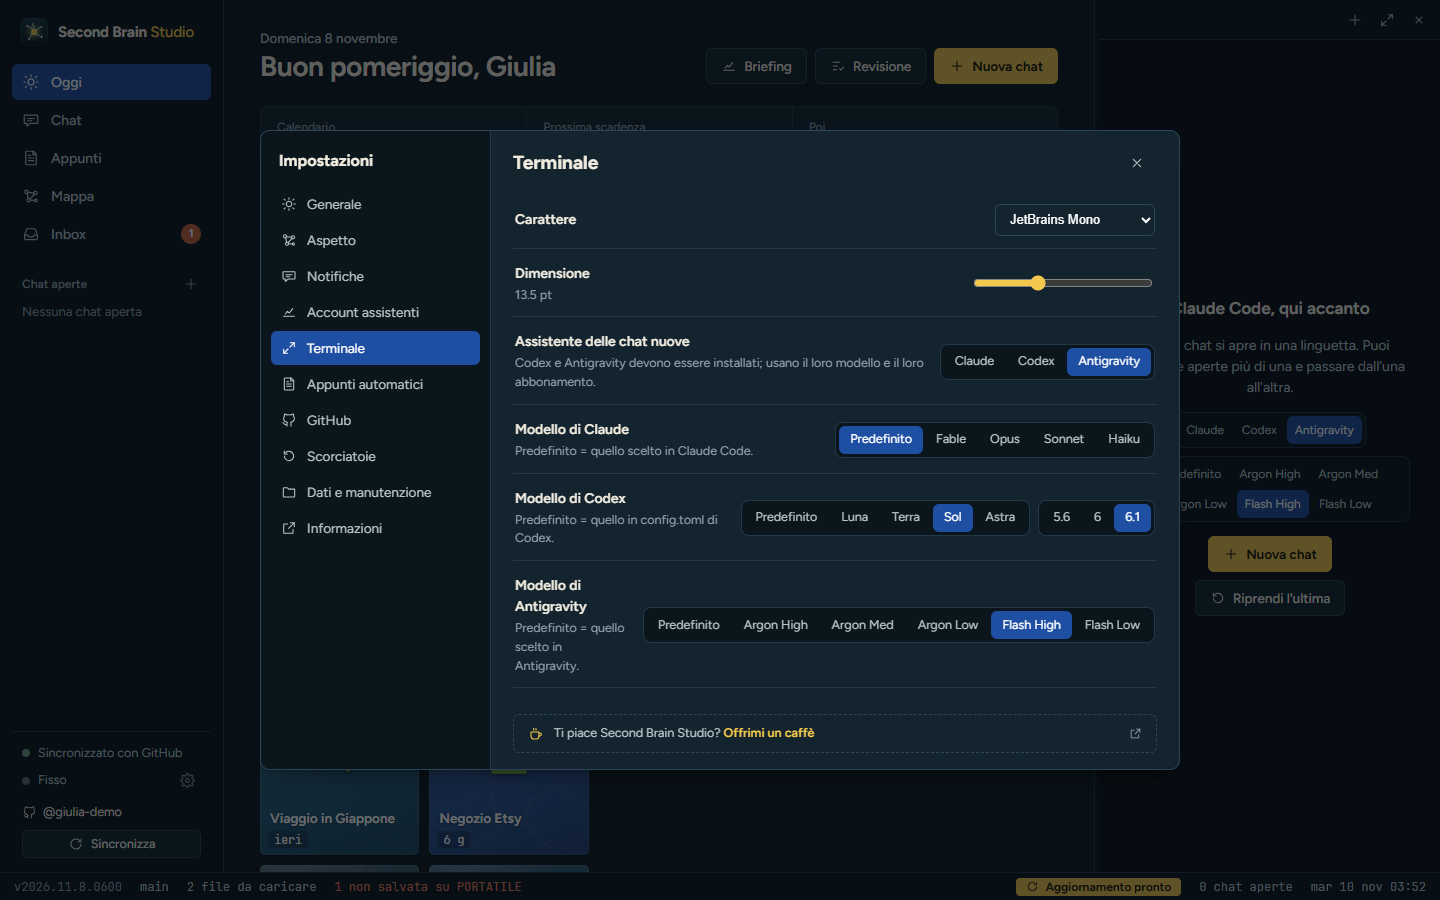
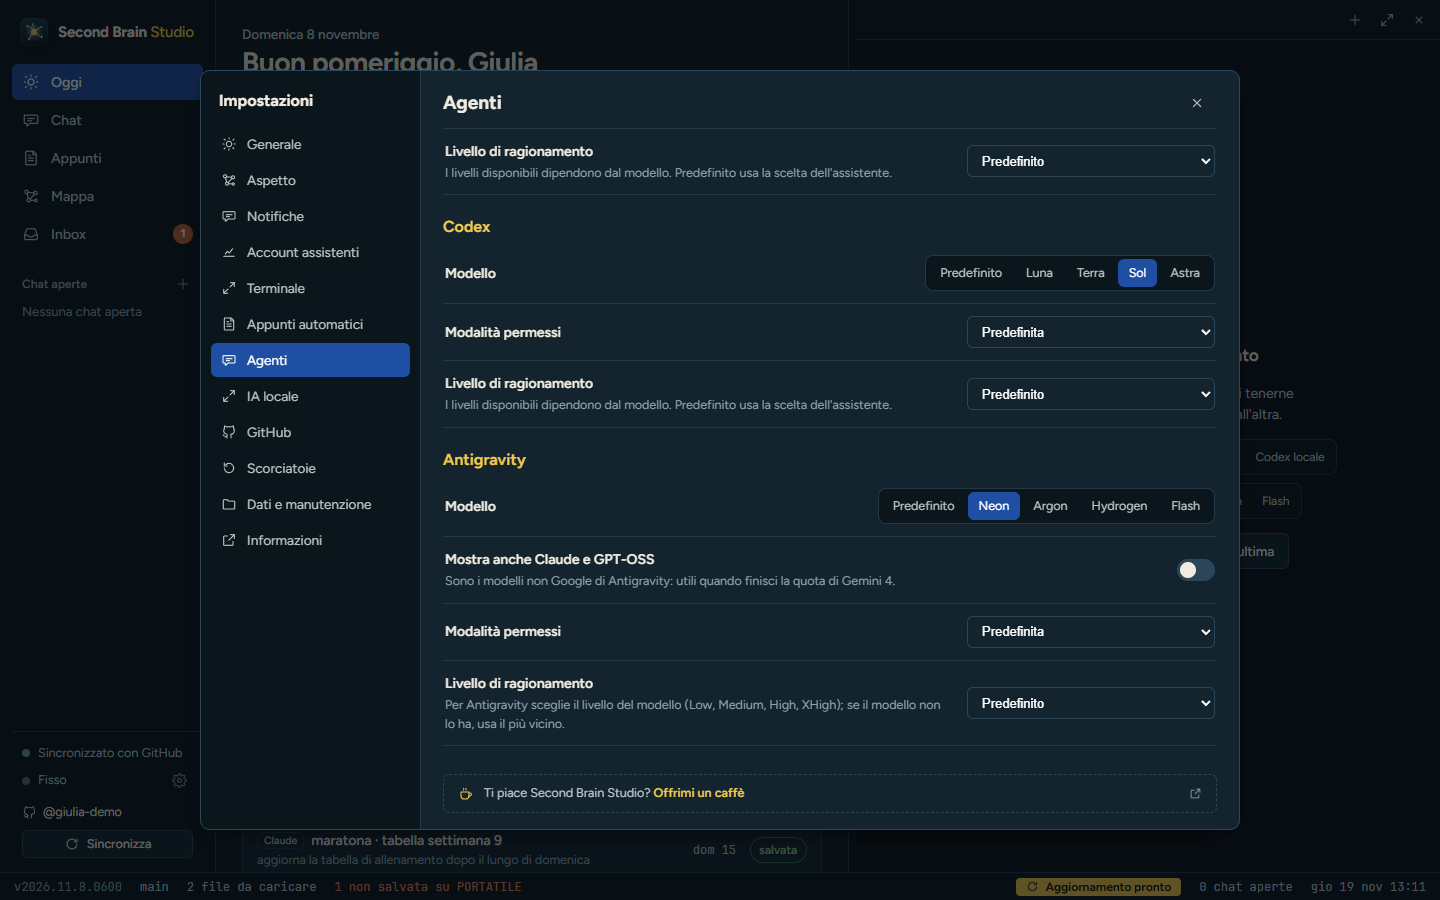
Refresh Agents screenshots and tour GIF, translate new settings, shorter Antigravity model names

diff --git a/app/web/prova.html b/app/web/prova.html
@@ -39,6 +39,10 @@
     } catch (_) {}
     if (par.has("imp")) addEventListener("load", () => setTimeout(() =>
       dispatchEvent(new KeyboardEvent("keydown", { key: ",", ctrlKey: true, bubbles: true })), 600));
+    // scorri: porta in fondo la pagina delle impostazioni (per mostrare l'ultima sezione, es. Antigravity)
+    if (par.has("scorri")) addEventListener("load", () => setTimeout(() => {
+      const v = document.querySelector(".imp-voci"); if (v) v.scrollTop = v.scrollHeight;
+    }, 2000));
     const ore = (h) => new Date(Date.now() - h * 3600e3).toISOString();
     const cestinoDemo = {};
     const chat = (EN ? [
@@ -129,6 +133,12 @@
       conta_inbox: async () => ({ inbox: 1 }),
       importazioni_inbox: async () => ({ esiti: [] }),
       incolla_inbox: async () => ({ errore: "Nel banco di prova nessun file viene salvato" }),
+      modelli: async () => ({ assistenti: {
+        agy: [["gemini-4-neon", ["low", "medium", "high", "xhigh"], "Gemini 4 Neon"], ["gemini-4-argon", ["low", "medium", "high"], "Gemini 4 Argon"],
+              ["gemini-4-hydrogen", ["low", "medium", "high", "xhigh"], "Gemini 4 Hydrogen"], ["gemini-3.8-flash", ["low", "medium", "high"], "Gemini 3.8 Flash"],
+              ["claude-opus-5-5", ["low", "medium", "high"], "Claude Opus 5.5"], ["claude-sonnet-5-5", ["low", "medium", "high"], "Claude Sonnet 5.5"]]
+          .flatMap(([id, livelli, nome]) => livelli.map((l) => ({ id: id + "-" + l, nome: nome + " (" + l + ")" }))),
+        codex: ["gpt-6.2-sol", "gpt-6.2-astra", "gpt-6.1-terra", "gpt-6-luna"].map((id) => ({ id, nome: id })) } }),
       assistenti: async () => ({ assistenti: [{ id: "claude", nome: "Claude", installato: true }, { id: "codex", nome: "Codex", installato: true }, { id: "agy", nome: "Antigravity", installato: true }, { id: "claude_locale", nome: "Claude locale", installato: true }, { id: "codex_locale", nome: "Codex locale", installato: true }] }),
       rinomina_inbox: async (rel, n) => ({ ok: true, nome: n, percorso: `Inbox/${n}` }), sposta_inbox: async (rel, p) => ({ ok: true, percorso: p, progetto: p.split("/")[1] }),
       schede: async () => ({ schede: schedeDemo }), chiudi_scheda: async () => ({ ok: true }),
@@ -148,7 +158,7 @@
     let impFinte = { lingua: EN ? "en" : "it", tema: par.get("tema") || "scuro", colore: "limone", testo: 100, animazioni: !par.has("statico"), pagina_iniziale: par.get("pagina") || "oggi",
       notifica_risposta: true, notifica_permesso: true, notifica_non_salvate: true, notifica_scadenze: true, notifica_inbox: true,
       notifica_sync: true, notifica_fuori_app: false, anteprima: true, silenzio_attivo: false, silenzio_da: "23:00", silenzio_a: "08:00",
-      silenzio_gioco: true, terminale_testo: 13.5, terminale_carattere: "JetBrains Mono", assistente_chat: par.get("assistente") || "claude", modello_codex: "gpt-6.1-sol", modello_agy: "gemini-3.8-flash-high", assistente_appunti: "chat", modello_appunti_codex: "predefinito", modello_appunti_agy: "gemini-3.8-flash-high", modello_chat: "predefinito",
+      silenzio_gioco: true, terminale_testo: 13.5, terminale_carattere: "JetBrains Mono", assistente_chat: par.get("assistente") || "claude", modello_codex: "gpt-6.2-sol", modello_agy: "gemini-4-neon-high", assistente_appunti: "chat", modello_appunti_codex: "predefinito", modello_appunti_agy: "gemini-3.8-flash-low", modello_chat: "predefinito",
       appunti_auto: true, modello_appunti: "sonnet", soglia_kb: 30, sync_minuti: 0, scorciatoia_globale: true,
       aggiornamenti_auto: true, aggiornamenti_prova: true, chat_altri_pc: true };
     let localeCfg = { eseguibile: "C:/strumenti/llama-server.exe", porta: 8087, inattivita_secondi: 300,

diff --git a/README.md b/README.md
@@ -42,8 +42,8 @@ Choose the assistant and model for each new chat. Studio runs the installed CLI 
 - Usage indicators depend on what each assistant exposes; they are not identical across providers. Conversation duplication uses Claude's native fork and is only offered for Claude.
 
 <table><tr>
-<td width="50%"><img src="docs/immagini/en/assistenti-codex.png" alt="Demo: Codex assistant and model settings"><br>Choose Codex and its model family.</td>
-<td width="50%"><img src="docs/immagini/en/assistenti-antigravity.png" alt="Demo: Antigravity assistant and model settings"><br>Choose Antigravity and its model.</td>
+<td width="50%"><img src="docs/immagini/en/assistenti-codex.png" alt="Demo: Codex assistant and model settings"><br>Choose Codex and its model family: always the newest version.</td>
+<td width="50%"><img src="docs/immagini/en/assistenti-antigravity.png" alt="Demo: Antigravity assistant and model settings"><br>Choose Antigravity and its model: the list (Neon, Argon, Hydrogen, Flash...) is read from the CLI, so new models appear by themselves.</td>
 </tr></table>
 
 Screenshots are interface previews using fictional data; they do not show real accounts or live assistant conversations.

diff --git a/CHANGELOG.md b/CHANGELOG.md
@@ -4,6 +4,10 @@ Versions are dates: `2026.11.8.1444` means 8 November 2026, 14:44.
 `app\build.ps1 -Stabile` uses the first section below as the release notes, so the newest version goes on top.
 "Next version" collects what is in `main` but not released yet: rename it when it ships.
 
+## Next version
+
+- English translations for the new Antigravity settings, shorter model names (Neon, Argon, Hydrogen, Flash) and refreshed README screenshots and tour GIF.
+
 ## 2026.11.19 - Open source (GPL-3.0), live model lists and local AI
 
 - Second Brain Studio is now free software under the GNU General Public License v3.0 (it was PolyForm Noncommercial). Versions up to 2026.11.15 keep their old license. Added a code of conduct, a security policy and third-party notices.
